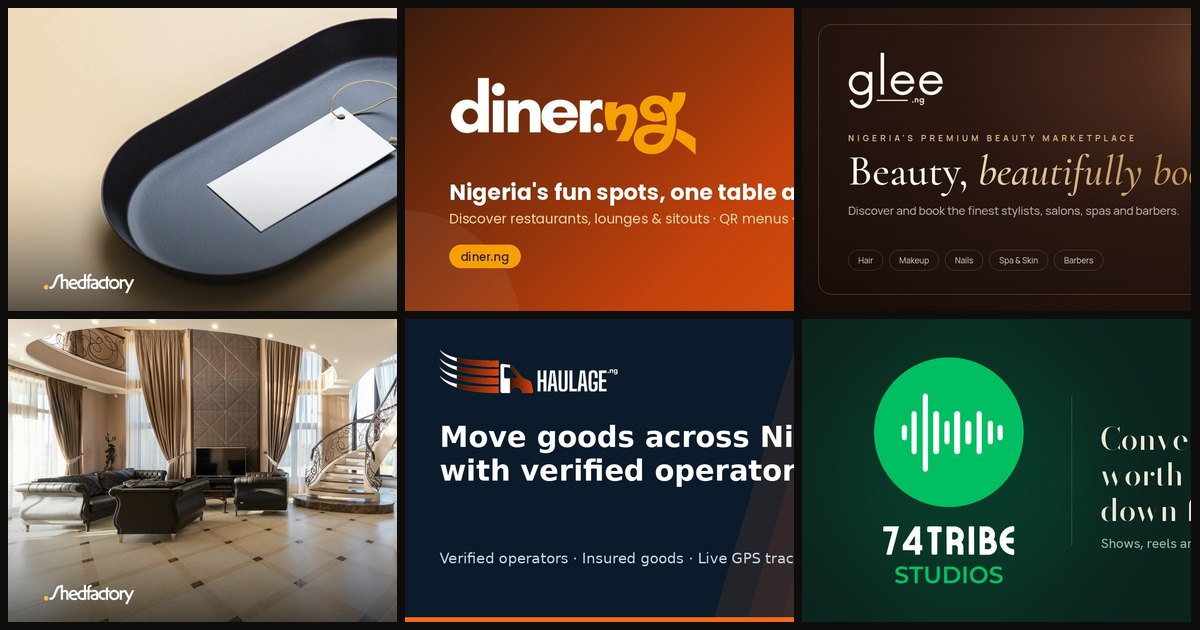
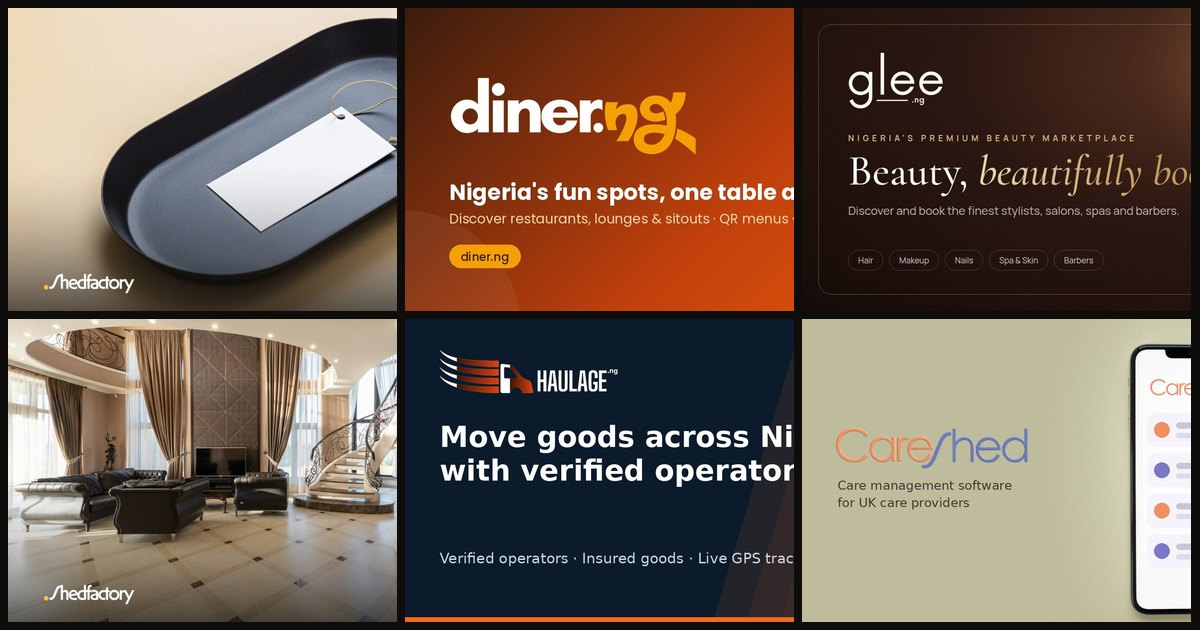
Add CareShed (careshed.co.uk) to products
- New /products/careshed page: UK care management software for providers, carers, families and people supported
- Share image: CareShed logo on the phone photo; products collage updated
- Product grid lays out 3 + 2 + 2 for seven products
- Counts and copy updated to seven platforms, Nigeria and the UK

Claude-Session: https://claude.ai/code/session_01RzK2QjEEvBRjbgXkXz2f41

Changed region(s): [[0.6475, 0.4825, 1.0, 0.9952]]

diff --git a/src/lib/content.ts b/src/lib/content.ts
@@ -5,7 +5,7 @@ export const site = {
   legalName: 'Shedfactory Limited',
   tagline: 'Bringing dreams to digital life',
   description:
-    'Shedfactory is a digital creative agency and product studio. We build our own platforms — Shed.ng, Diner.ng, Glee.ng, Found.ng, Haulage.ng and 74 Tribe Studios — and help founders and companies turn ideas into brands, websites and products.',
+    'Shedfactory is a digital creative agency and product studio. We build our own platforms — Shed.ng, Diner.ng, Glee.ng, Found.ng, Haulage.ng, 74 Tribe Studios and CareShed — and help founders and companies turn ideas into brands, websites and products.',
   url: process.env.NEXT_PUBLIC_SITE_URL || 'https://shedfactory.co',
   email: 'hello@shedfactory.co',
   phone: '+44 7526 801286',
@@ -32,7 +32,7 @@ export const stats = [
   { value: '10', label: 'Years of excellence' },
   { value: '100+', label: 'Dreams brought to life' },
   { value: '25+', label: 'Industries served' },
-  { value: '6', label: 'Platforms we own and run' },
+  { value: '7', label: 'Platforms we own and run' },
 ];
 
 export type Product = {
@@ -220,6 +220,34 @@ export const products: Product[] = [
         'Book lounge, coffee-table, news and full sets for your show',
         'Hire the recording studio and meeting rooms',
         'Take a studio tour before you book',
+      ],
+    },
+  },
+  {
+    slug: 'careshed',
+    name: 'CareShed',
+    domain: 'careshed.co.uk',
+    url: 'https://careshed.co.uk',
+    tagline: 'Because great care deserves great technology.',
+    category: 'Care management software (UK)',
+    summary:
+      'Care management software for UK domiciliary, residential, supported-living and day-centre providers — rostering, visit records, care plans, payroll and a family portal in one place.',
+    accent: '#6c79d6',
+    forUsers: {
+      title: 'For carers, families & people supported',
+      points: [
+        'Carers see the day’s visits on their phone, check in and out, and record medication, mood and notes',
+        'Families read visit notes as they’re written, see upcoming visits and message the care team',
+        'People supported get a calm personal space: a visual daily plan, sensory activities and videos chosen by their team',
+      ],
+    },
+    forBusiness: {
+      title: 'For care providers',
+      points: [
+        'Build rotas and match carers to clients by skills and location',
+        'Keep care plans current and export CQC-ready reports',
+        'Run payroll from completed visits',
+        'Plans from £99 a month, with a 14-day free trial and no card needed',
       ],
     },
   },
@@ -421,7 +449,7 @@ export const processSteps = [
 export const studio = {
   headline: 'Got an idea? Let’s bring it to life.',
   intro:
-    'We don’t just build for clients — we build our own products. Shed, Diner, Glee, Found, Haulage and 74 Tribe started as ideas on a whiteboard. Today they’re live platforms with real users and real businesses on them. We bring that same founder-side experience to startups and companies with an idea worth building.',
+    'We don’t just build for clients — we build our own products. Shed, Diner, Glee, Found, Haulage, 74 Tribe and CareShed started as ideas on a whiteboard. Today they’re live platforms with real users and real businesses on them. We bring that same founder-side experience to startups and companies with an idea worth building.',
   stages: [
     {
       title: 'Shape the idea',

diff --git a/src/app/products/page.tsx b/src/app/products/page.tsx
@@ -7,7 +7,7 @@ import { ProductCards } from '@/components/Sections';
 
 export const metadata = pageMeta({
   title: 'Our Products',
-  description: 'Shed.ng, Diner.ng, Glee.ng, Found.ng, Haulage.ng and 74 Tribe Studios — platforms designed, built and run by Shedfactory.',
+  description: 'Shed.ng, Diner.ng, Glee.ng, Found.ng, Haulage.ng, 74 Tribe Studios and CareShed — platforms designed, built and run by Shedfactory.',
   path: '/products',
   image: '/og/products.jpg',
 });
@@ -19,7 +19,7 @@ export default function Products() {
         crumbs={[{ label: 'Products' }]}
         eyebrow="Built and run by Shedfactory"
         title={<>Platforms we <span className="grad-text">own and operate.</span></>}
-        lead="We design, engineer and run our own products. Each one solves a real everyday problem in Nigeria — and each one makes us better at building yours."
+        lead="We design, engineer and run our own products. Each one solves a real everyday problem, in Nigeria and the UK — and each one makes us better at building yours."
       />
       <section className="section section--cream">
         <div className="wrap"><ProductCards /></div>
@@ -38,7 +38,7 @@ export default function Products() {
           </div>
         </div>
       </section>
-      <CtaBand title="Want to list your business on one of our platforms?" text="Sellers, restaurants, beauty professionals, realtors, logistics operators and creators can join our platforms today — or talk to us about a partnership." label="Talk to us" />
+      <CtaBand title="Want to list your business on one of our platforms?" text="Sellers, restaurants, beauty professionals, realtors, logistics operators, creators and care providers can join our platforms today — or talk to us about a partnership." label="Talk to us" />
     </>
   );
 }

diff --git a/src/app/about/page.tsx b/src/app/about/page.tsx
@@ -37,7 +37,7 @@ export default function About() {
               Our clients bring the passion and the vision. We bring the creative and technical expertise to turn abstract concepts into compelling brands, engaging websites, powerful web applications and results-driven marketing.
             </p>
             <p className="muted">
-              Along the way we started building our own products. Shed, Diner, Glee, Found, Haulage and 74 Tribe are live platforms we design, engineer and operate ourselves — which means when we advise a founder, we’re speaking from experience.
+              Along the way we started building our own products. Shed, Diner, Glee, Found, Haulage, 74 Tribe and CareShed are live platforms we design, engineer and operate ourselves — which means when we advise a founder, we’re speaking from experience.
             </p>
             <ul className="check-list">
               {['Offices in the UK and Nigeria', 'Partnership approach, not just projects', 'From brand strategy to hosting and support'].map((t) => (

diff --git a/src/app/globals.css b/src/app/globals.css
@@ -345,11 +345,12 @@ ul { margin: 0; padding: 0; list-style: none; }
   .hero__product { flex-direction: column; align-items: flex-start; gap: 4px; }
   .hero__product > span:last-child { text-align: left; }
 }
-/* 5 products: 3 across, then 2 wider cards */
+/* 5 products: 3 + 2 wider; 7 products: 3 + 2 + 2 */
 @media (min-width: 981px) {
   .products { grid-template-columns: repeat(6, 1fr); }
   .product-card { grid-column: span 2; }
   .product-card:nth-child(4):nth-last-child(2), .product-card:nth-child(5):last-child { grid-column: span 3; }
+  .products:has(> .product-card:nth-child(7):last-child) > .product-card:nth-child(n+4) { grid-column: span 3; }
 }
 a.work-card { display: block; }
 

diff --git a/src/app/page.tsx b/src/app/page.tsx
@@ -75,7 +75,7 @@ export default function Home() {
             <span className="eyebrow">Our products</span>
             <h2 className="h-section">We don’t just build for others. We build our own.</h2>
             <p className="lead">
-              Six platforms, designed, engineered and operated in-house — for local commerce, places to eat, beauty, property, logistics and media.
+              Seven platforms, designed, engineered and operated in-house — for local commerce, places to eat, beauty, property, logistics, media and care.
             </p>
           </div>
           <ProductCards />

diff --git a/scripts/make-og.py b/scripts/make-og.py
@@ -65,6 +65,55 @@ def collage(paths, cols, rows, gap=8, focus=(0.5, 0.0)):
     return out
 
 
+def careshed_phone():
+    """CareShed: its logo on the phone photo, as a simple app screen."""
+    photo = Image.open(IMG / 'services/ui-ux.jpg').convert('RGB')
+    k = 560 / 520  # phone body is ~520px tall in the source
+    photo = photo.resize((round(photo.width * k), round(photo.height * k)), Image.LANCZOS)
+    px = 820 - round(304 * k)  # phone centre x in source ~304
+    py = (H - round(500 * k)) // 2 - round(240 * k) + 6
+    # background: the photo's own edge colour, then the photo blended in with a feathered left edge
+    edge = photo.crop((0, 0, 40, photo.height)).resize((1, 1), Image.LANCZOS).getpixel((0, 0))
+    canvas = Image.new('RGB', (W, H), edge)
+    layer = Image.new('RGB', (W, H), edge)
+    layer.paste(photo, (px, py))
+    mask = Image.new('L', (W, H), 0)
+    md = ImageDraw.Draw(mask)
+    for x in range(W):
+        right = px + photo.width
+        a = 0 if x < px or x >= right else min(255, int(255 * (x - px) / 220), int(255 * (right - x) / 60))
+        md.line([(x, 0), (x, H)], fill=a)
+    canvas = Image.composite(layer, canvas, mask)
+    out = canvas.convert('RGBA')
+    d = ImageDraw.Draw(out)
+    # screen content (inside the white screen: x 190-416, y 275-745 in source)
+    sx0, sy0 = px + round(196 * k), py + round(282 * k)
+    sw = round(214 * k)
+    logo = Image.open(SRC / 'careshed-logo.png').convert('RGBA').crop((28, 28, 269, 80))
+    lw = sw - 40
+    lg = logo.resize((lw, round(lw * logo.height / logo.width)), Image.LANCZOS)
+    out.alpha_composite(lg, (sx0 + 20, sy0 + 26))
+    y = sy0 + 26 + lg.height + 30
+    accents = [(240, 144, 96), (122, 120, 200), (240, 144, 96), (122, 120, 200)]
+    for i, c in enumerate(accents):
+        d.rounded_rectangle((sx0 + 14, y, sx0 + sw - 14, y + 70), radius=14, fill=(246, 244, 250))
+        d.ellipse((sx0 + 28, y + 19, sx0 + 60, y + 51), fill=c)
+        d.rounded_rectangle((sx0 + 74, y + 20, sx0 + sw - 70, y + 32), radius=6, fill=(200, 198, 214))
+        d.rounded_rectangle((sx0 + 74, y + 42, sx0 + sw - 110, y + 52), radius=5, fill=(222, 220, 232))
+        y += 84
+    # left: logo + strapline
+    big = logo.resize((400, round(400 * logo.height / logo.width)), Image.LANCZOS)
+    out.alpha_composite(big, (70, 225))
+    from PIL import ImageFont
+    try:
+        fnt = ImageFont.truetype('/usr/share/fonts/truetype/dejavu/DejaVuSans.ttf', 26)
+    except OSError:
+        fnt = ImageFont.load_default()
+    d.text((74, 330), 'Care management software', font=fnt, fill=(60, 58, 48))
+    d.text((74, 366), 'for UK care providers', font=fnt, fill=(60, 58, 48))
+    return out.convert('RGB')
+
+
 def save(img, name):
     img.convert('RGB').save(OUT / f'{name}.jpg', quality=86, optimize=True, progressive=True)
     print('wrote', f'public/og/{name}.jpg')
@@ -94,7 +143,8 @@ def main():
         save(cover(Image.open(SRC / f)), f'product-{slug}')
     save(badge(cover(Image.open(SRC / 'found.jpg'), focus=(0.5, 0.55))), 'product-found')
     save(badge(cover(Image.open(bg / 'main-slider-1-1-b.jpg'), focus=(0.55, 0.5))), 'product-shed')
-    save(collage([OUT / f'product-{s}.jpg' for s in ['shed', 'diner', 'glee', 'found', 'haulage', '74-tribe']], 3, 2, focus=(0.0, 0.5)), 'products')
+    save(careshed_phone(), 'product-careshed')
+    save(collage([OUT / f'product-{s}.jpg' for s in ['shed', 'diner', 'glee', 'found', 'haulage', 'careshed']], 3, 2, focus=(0.0, 0.5)), 'products')
 
 
 if __name__ == '__main__':

diff --git a/content/blog/why-we-build-our-own-products.md b/content/blog/why-we-build-our-own-products.md
@@ -1,6 +1,6 @@
 ---
 title: Why a creative agency builds its own products
-description: Shed, Diner, Glee, Found, Haulage and 74 Tribe aren't side projects. They're how we stay honest about what it takes to launch something real.
+description: Shed, Diner, Glee, Found, Haulage, 74 Tribe and CareShed aren't side projects. They're how we stay honest about what it takes to launch something real.
 date: 2026-10-20
 author: Shedfactory Team
 tags: [Products, Studio]
@@ -9,7 +9,7 @@ cover: /og/products.jpg
 
 Most agencies talk about building products. We decided to actually run some.
 
-Today Shedfactory designs, engineers and operates six platforms of its own: **[Shed](/products/shed)** for local sellers and shoppers, **[Diner](/products/diner)** for restaurants and venues, **[Glee](/products/glee)** for beauty bookings, **[Found](/products/found)** for property, **[Haulage](/products/haulage)** for moving goods across Nigeria, and **[74 Tribe Studios](/products/74-tribe)** for shows and studio hire.
+Today Shedfactory designs, engineers and operates seven platforms of its own: **[Shed](/products/shed)** for local sellers and shoppers, **[Diner](/products/diner)** for restaurants and venues, **[Glee](/products/glee)** for beauty bookings, **[Found](/products/found)** for property, **[Haulage](/products/haulage)** for moving goods across Nigeria, **[74 Tribe Studios](/products/74-tribe)** for shows and studio hire, and **[CareShed](/products/careshed)** for UK care providers.
 
 Here's why we think that makes us a better partner for anyone with an idea.
 
@@ -21,7 +21,7 @@ Running our own platforms means we've faced those questions ourselves. That expe
 
 ## Two-sided platforms are hard. We've built six.
 
-Every one of our products serves two groups at once: shoppers and sellers, diners and venues, clients and stylists, buyers and realtors, shippers and operators, viewers and creators. Each side only joins if the other is already there.
+Six of our products serve two groups at once: shoppers and sellers, diners and venues, clients and stylists, buyers and realtors, shippers and operators, viewers and creators. Each side only joins if the other is already there.
 
 That chicken-and-egg problem shapes everything — onboarding, pricing, what launches first and what waits. If your idea is a marketplace, a booking platform or a directory, it's a problem we know well.
 

diff --git a/README.md b/README.md
@@ -8,8 +8,8 @@ Website for Shedfactory Limited: a digital creative agency and product studio. B
 | --- | --- |
 | `/` | Home — hero, products, services, startup offer, process, work, testimonials, FAQ |
 | `/about` | Story, values, products, testimonials |
-| `/products` | Shed.ng, Diner.ng, Glee.ng, Found.ng, Haulage.ng, 74 Tribe Studios overview |
-| `/products/[slug]` | Individual product pages (`shed`, `diner`, `glee`, `found`, `haulage`, `74-tribe`) |
+| `/products` | Shed.ng, Diner.ng, Glee.ng, Found.ng, Haulage.ng, 74 Tribe Studios, CareShed overview |
+| `/products/[slug]` | Individual product pages (`shed`, `diner`, `glee`, `found`, `haulage`, `74-tribe`, `careshed`) |
 | `/services` and `/services/[slug]` | Brand strategy, web & app development, UI/UX, digital marketing, content |
 | `/startups` | Venture building for founders and companies, with an idea-submission form |
 | `/work` | Portfolio |
@@ -35,7 +35,7 @@ Set `cover:` to a 1200×630 photo (e.g. one you add under `public/assets/images/
 
 Every page has its own Open Graph and Twitter tags (title, description, URL, image) via `pageMeta()` in `src/lib/seo.ts`. Share images are real photos, 1200×630, in `public/og/`:
 
-- Products use each product's own share artwork (Diner, Glee, Haulage, 74 Tribe) or a photo (Shed, Found) — sources in `scripts/og-sources/`
+- Products use each product's own share artwork (Diner, Glee, Haulage, 74 Tribe) a photo (Shed, Found), or the product's logo on a phone photo (CareShed) — sources in `scripts/og-sources/`
 - Site and service pages use the site's photos with a small Shedfactory logo
 
 To change one, swap the source photo and run `python3 scripts/make-og.py` (needs Pillow), or simply replace the file in `public/og/` with your own 1200×630 JPG.
